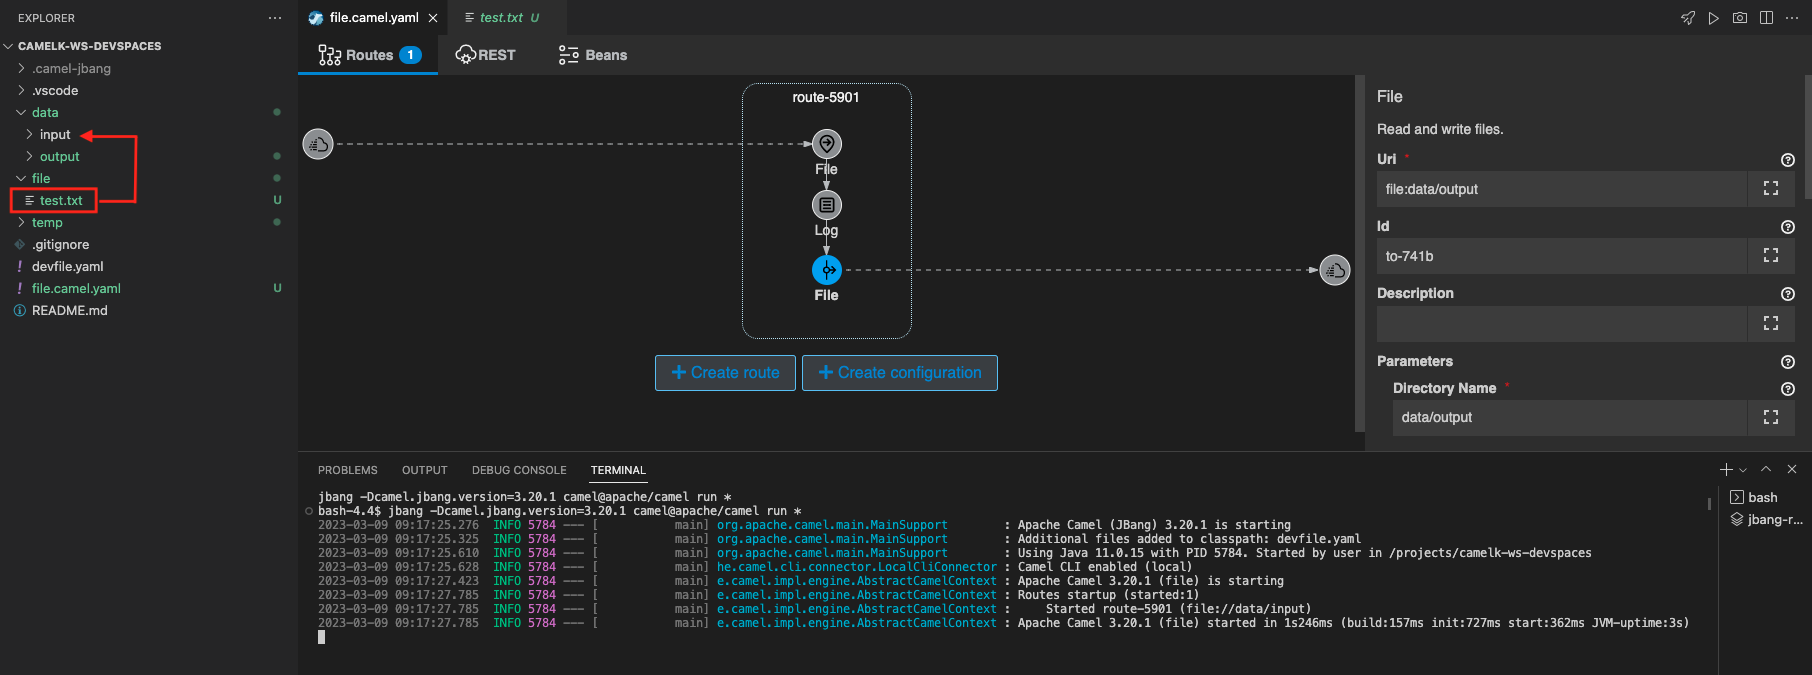
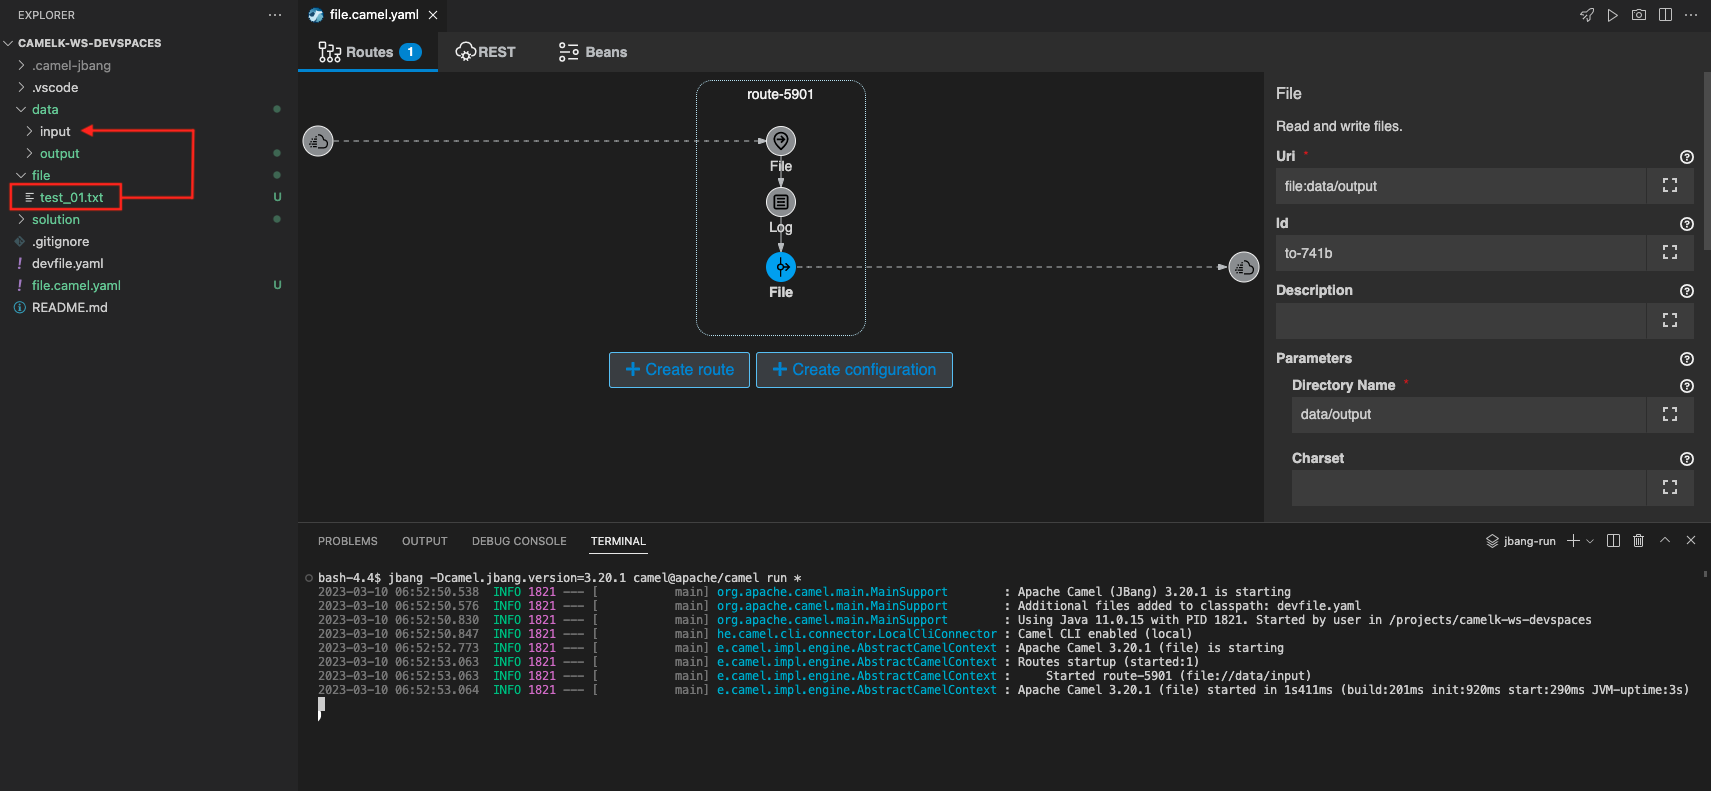
updates

diff --git a/file-component.md b/file-component.md
@@ -58,7 +58,7 @@ File の プロパティが開きますので、以下を入力します。
 ![](images/02-file-006.png)
 ![karavan]({% image_path 02-file-006.png %}){:width="1200px"}
 
-テスト用のテキストファイルは、`file` フォルダに `test.txt` というファイルが用意されていますので、それを使用しましょう。
+テスト用のテキストファイルは、`file` フォルダに `test_01.txt` というファイルが用意されていますので、それを使用しましょう。
 
 ファイルの中身は、
 
@@ -68,6 +68,11 @@ Hello World!
 
 というテキストが格納されています。
 
+また、ファイルの入出力用のフォルダを、ルートディレクトリ上に作成をしておきます。
+
+* **入力用**: file/input
+* **出力用**: file /output 
+
 それでは、実際に動かしてみます。
 右上の ロケットのアイコン のボタンを押してください。
 
@@ -75,7 +80,7 @@ Hello World!
 ![karavan]({% image_path 02-file-007.png %}){:width="1200px"}
 
 ターミナルが開き、作成したインテグレーションが JBang を通して実行されます。
-特にエラーなく実行されたら、左のエクスプローラー上で、`file/test.txt` を右クリックして、`Copy` し、`data/input` フォルダの中に `Paste` して、ファイルを指定のフォルダに格納してください。
+特にエラーなく実行されたら、左のエクスプローラー上で、`file/test_01.txt` を右クリックして、`Copy` し、`data/input` フォルダの中に `Paste` して、ファイルを指定のフォルダに格納してください。
 
 ![](images/02-file-008.png)
 ![karavan]({% image_path 02-file-008.png %}){:width="1200px"}
@@ -90,6 +95,7 @@ Hello World!
 
 確認後、`Ctrl+C` もしくは、ターミナル右上のゴミ箱のアイコンをクリックして、終了してください。
 
+---
 
 ### 3. ファイルの内容に追記をして出力をする
 
@@ -126,7 +132,7 @@ Parameters 項目に、以下の内容を設定してください。
 右上の ロケットのアイコン のボタンを押してください。
 
 ターミナルが開き、作成したインテグレーションが JBang を通して実行されます。
-特にエラーなく実行されたら、もう一度、 左のエクスプローラー上で、`file/test.txt` を右クリックして、`Copy` し、`data/input` フォルダの中に `Paste` して、ファイルを指定のフォルダに格納してください。
+特にエラーなく実行されたら、もう一度、 左のエクスプローラー上で、`file/test_01.txt` を右クリックして、`Copy` し、`data/input` フォルダの中に `Paste` して、ファイルを指定のフォルダに格納してください。
 
 ファイルが所定のフォルダに格納されると、インテグレーションが実行されて、コンソールに Log が表示され、`data/output` にファイルが格納されます。
 （インプットのファイルは、`data/input` 配下に `.camel` フォルダが作成され、そちらに移動します）

diff --git a/data-formats.md b/data-formats.md
@@ -3,12 +3,14 @@
 
 ### 1. 目的
 
-[Marshal](https://camel.apache.org/components/{{ CAMEL_VERSION }}/eips/marshal-eip.html) と [Unmarshal](https://camel.apache.org/components/{{ CAMEL_VERSION }}/eips/unmarshal-eip.html#) を使用して、Camel K のデータ変換機能の使用方法を理解する事を目的とします。
+[Marshal](https://camel.apache.org/components/{{ CAMEL_VERSION }}/eips/marshal-eip.html){:target="_blank"} と [Unmarshal](https://camel.apache.org/components/{{ CAMEL_VERSION }}/eips/unmarshal-eip.html#){:target="_blank"} を使用して、Camel K のデータ変換機能の使用方法を理解する事を目的とします。
 
 * **Marshal** - Message の Body の Javaオブジェクトをバイナリやテキスト形式に変換します。
 * **Unmarshal** - Message の Body の バイナリやテキスト形式のデータをJavaオブジェクトに変換します。
 
-Apache Camel が提供する Data Format については[こちら](https://camel.apache.org/components/{{ CAMEL_VERSION }}/dataformats/index.html)を参照してください。
+Apache Camel が提供する Data Format については[こちら](https://camel.apache.org/components/{{ CAMEL_VERSION }}/dataformats/index.html){:target="_blank"}を参照してください。
+
+---
 
 ### 2. CSVファイルを Unmarshal でJavaオブジェクトに変換する
 
@@ -32,7 +34,7 @@ Parameters は、以下を入力してください。
 
 * **Directory Name**: data/input
 
-> 前章の [Fileコンポーネント]({{ HOSTNAME_SUFFIX }}/workshop/camel-k/lab/file-component) で `data/input` フォルダを作成していない場合は、ワークスペースのルートフォルダ直下に、`data` フォルダを作成し、さらにdata フォルダの配下に、`input` フォルダを作成してください。
+> 前章の [Fileコンポーネント]({{ HOSTNAME_SUFFIX }}/workshop/camel-k/lab/file-component){:target="_blank"} で `data/input` フォルダを作成していない場合は、ワークスペースのルートフォルダ直下に、`data` フォルダを作成し、さらにdata フォルダの配下に、`input` フォルダを作成してください。
 
 ![](images/03-dataformat-002.png)
 ![karavan]({% image_path 03-dataformat-002.png %}){:width="800px"}
@@ -104,6 +106,8 @@ CSV Data Format で Unmarshal したデータは、JavaのList型になります
 ![karavan]({% image_path 03-dataformat-009.png %}){:width="800px"}
 
 Log の確認ができたら、処理を停止してください。
+
+---
 
 ### 3. Marshal でJSON形式のテキストに変換する
 
